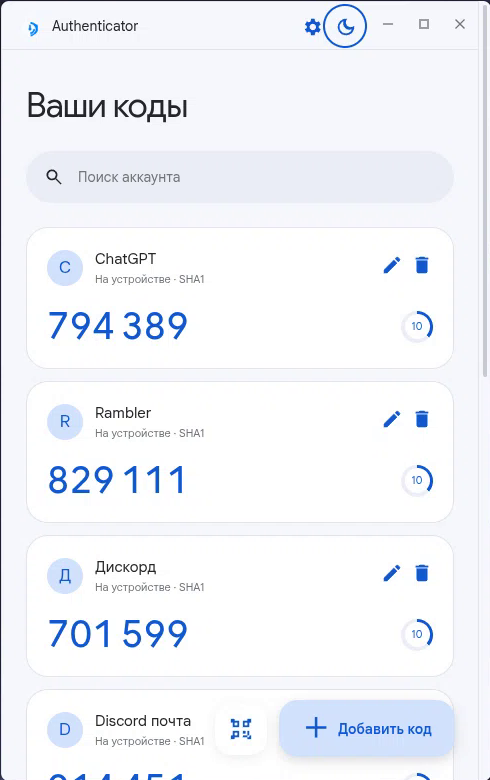
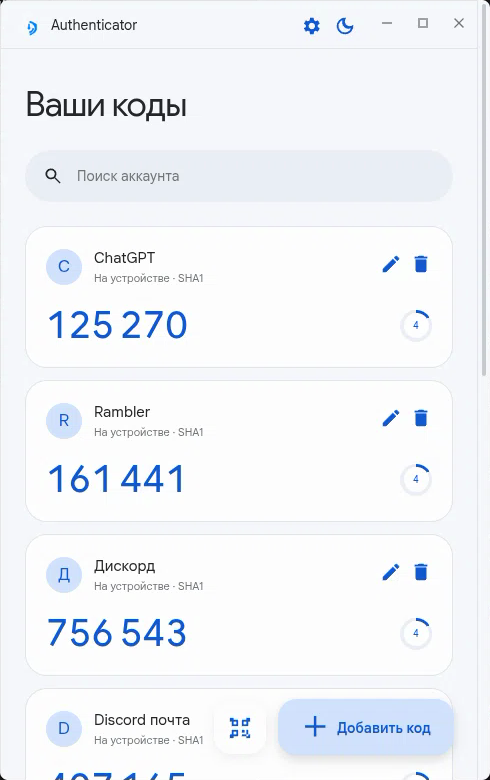
README без HTML и новый скриншот светлой темы
- Верхняя часть README переведена на чистый Markdown: убраны блоки
  p/h1/img, бейджи оформлены ссылками на изображения
- Плейсхолдер репозитория приведён к единому виду USER/REPO
- Скриншот светлой темы заменён, обрезан по границам окна (490x780)

diff --git a/README.md b/README.md
@@ -1,23 +1,14 @@
-<p align="center">
-  <img src="public/assets/logo.png" width="104" alt="Логотип Authenticator">
-</p>
+# Authenticator
 
-<h1 align="center">Authenticator</h1>
+[![Лицензия](https://img.shields.io/badge/license-MIT-blue.svg)](LICENSE)
+[![Платформы](https://img.shields.io/badge/platform-Linux%20%7C%20Windows-lightgrey.svg)](#установка)
+[![Electron](https://img.shields.io/badge/Electron-44-47848F?logo=electron&logoColor=white)](https://www.electronjs.org/)
+[![Node.js](https://img.shields.io/badge/Node.js-22%2B-339933?logo=node.js&logoColor=white)](https://nodejs.org/)
 
-<p align="center">
-  Настольное приложение для двухэтапной аутентификации: локальная генерация TOTP-кодов,
-  интерфейс в стиле Material Design 3, светлая и тёмная темы.
-  <br>
-  <b>Секретные ключи не покидают вашу машину.</b> Приложение не является продуктом Google.
-</p>
+Настольное приложение для двухэтапной аутентификации: локальная генерация TOTP-кодов,
+интерфейс в стиле Material Design 3, светлая и тёмная темы.
 
-<p align="center">
-  <img alt="Лицензия" src="https://img.shields.io/badge/license-MIT-blue.svg">
-  <img alt="Платформы" src="https://img.shields.io/badge/platform-Linux%20%7C%20Windows-lightgrey.svg">
-  <img alt="Electron" src="https://img.shields.io/badge/Electron-44-47848F?logo=electron&logoColor=white">
-  <img alt="Node.js" src="https://img.shields.io/badge/Node.js-22%2B-339933?logo=node.js&logoColor=white">
-  <img alt="Тесты" src="https://img.shields.io/badge/tests-13%20passed-brightgreen.svg">
-</p>
+**Секретные ключи не покидают вашу машину.** Приложение не является продуктом Google.
 
 ---
 
@@ -89,7 +80,7 @@ makepkg -si
 Требуется **Node.js 22+**.
 
 ```sh
-git clone <URL-вашего-репозитория>.git
+git clone https://github.com/USER/REPO.git
 cd Authenticator
 npm install
 npm start
